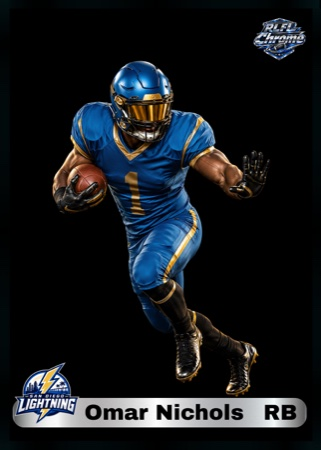
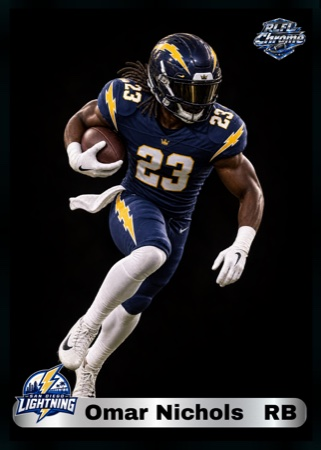
Replace Omar Nichols art with new blank-background redesign
Swaps all 19 tiers for Omar Nichols (same filenames, no code changes
needed) to match Justin Hayes' new blank-background look, including a
matching "Cathedral" stained-glass Case Hit design for both players
now.

Bumped the service worker cache since these are same-filename image
replacements.

Changed region(s): [[0.1558, 0.0622, 0.8411, 0.9022]]

diff --git a/sw.js b/sw.js
@@ -1,6 +1,6 @@
 // RipLab service worker — enables "install" + offline play.
 // Bump CACHE_NAME whenever you change any cached file so clients pick up the update.
-var CACHE_NAME = "riplab-v27";
+var CACHE_NAME = "riplab-v28";
 var CORE_ASSETS = [
   "./",
   "./index.html",
